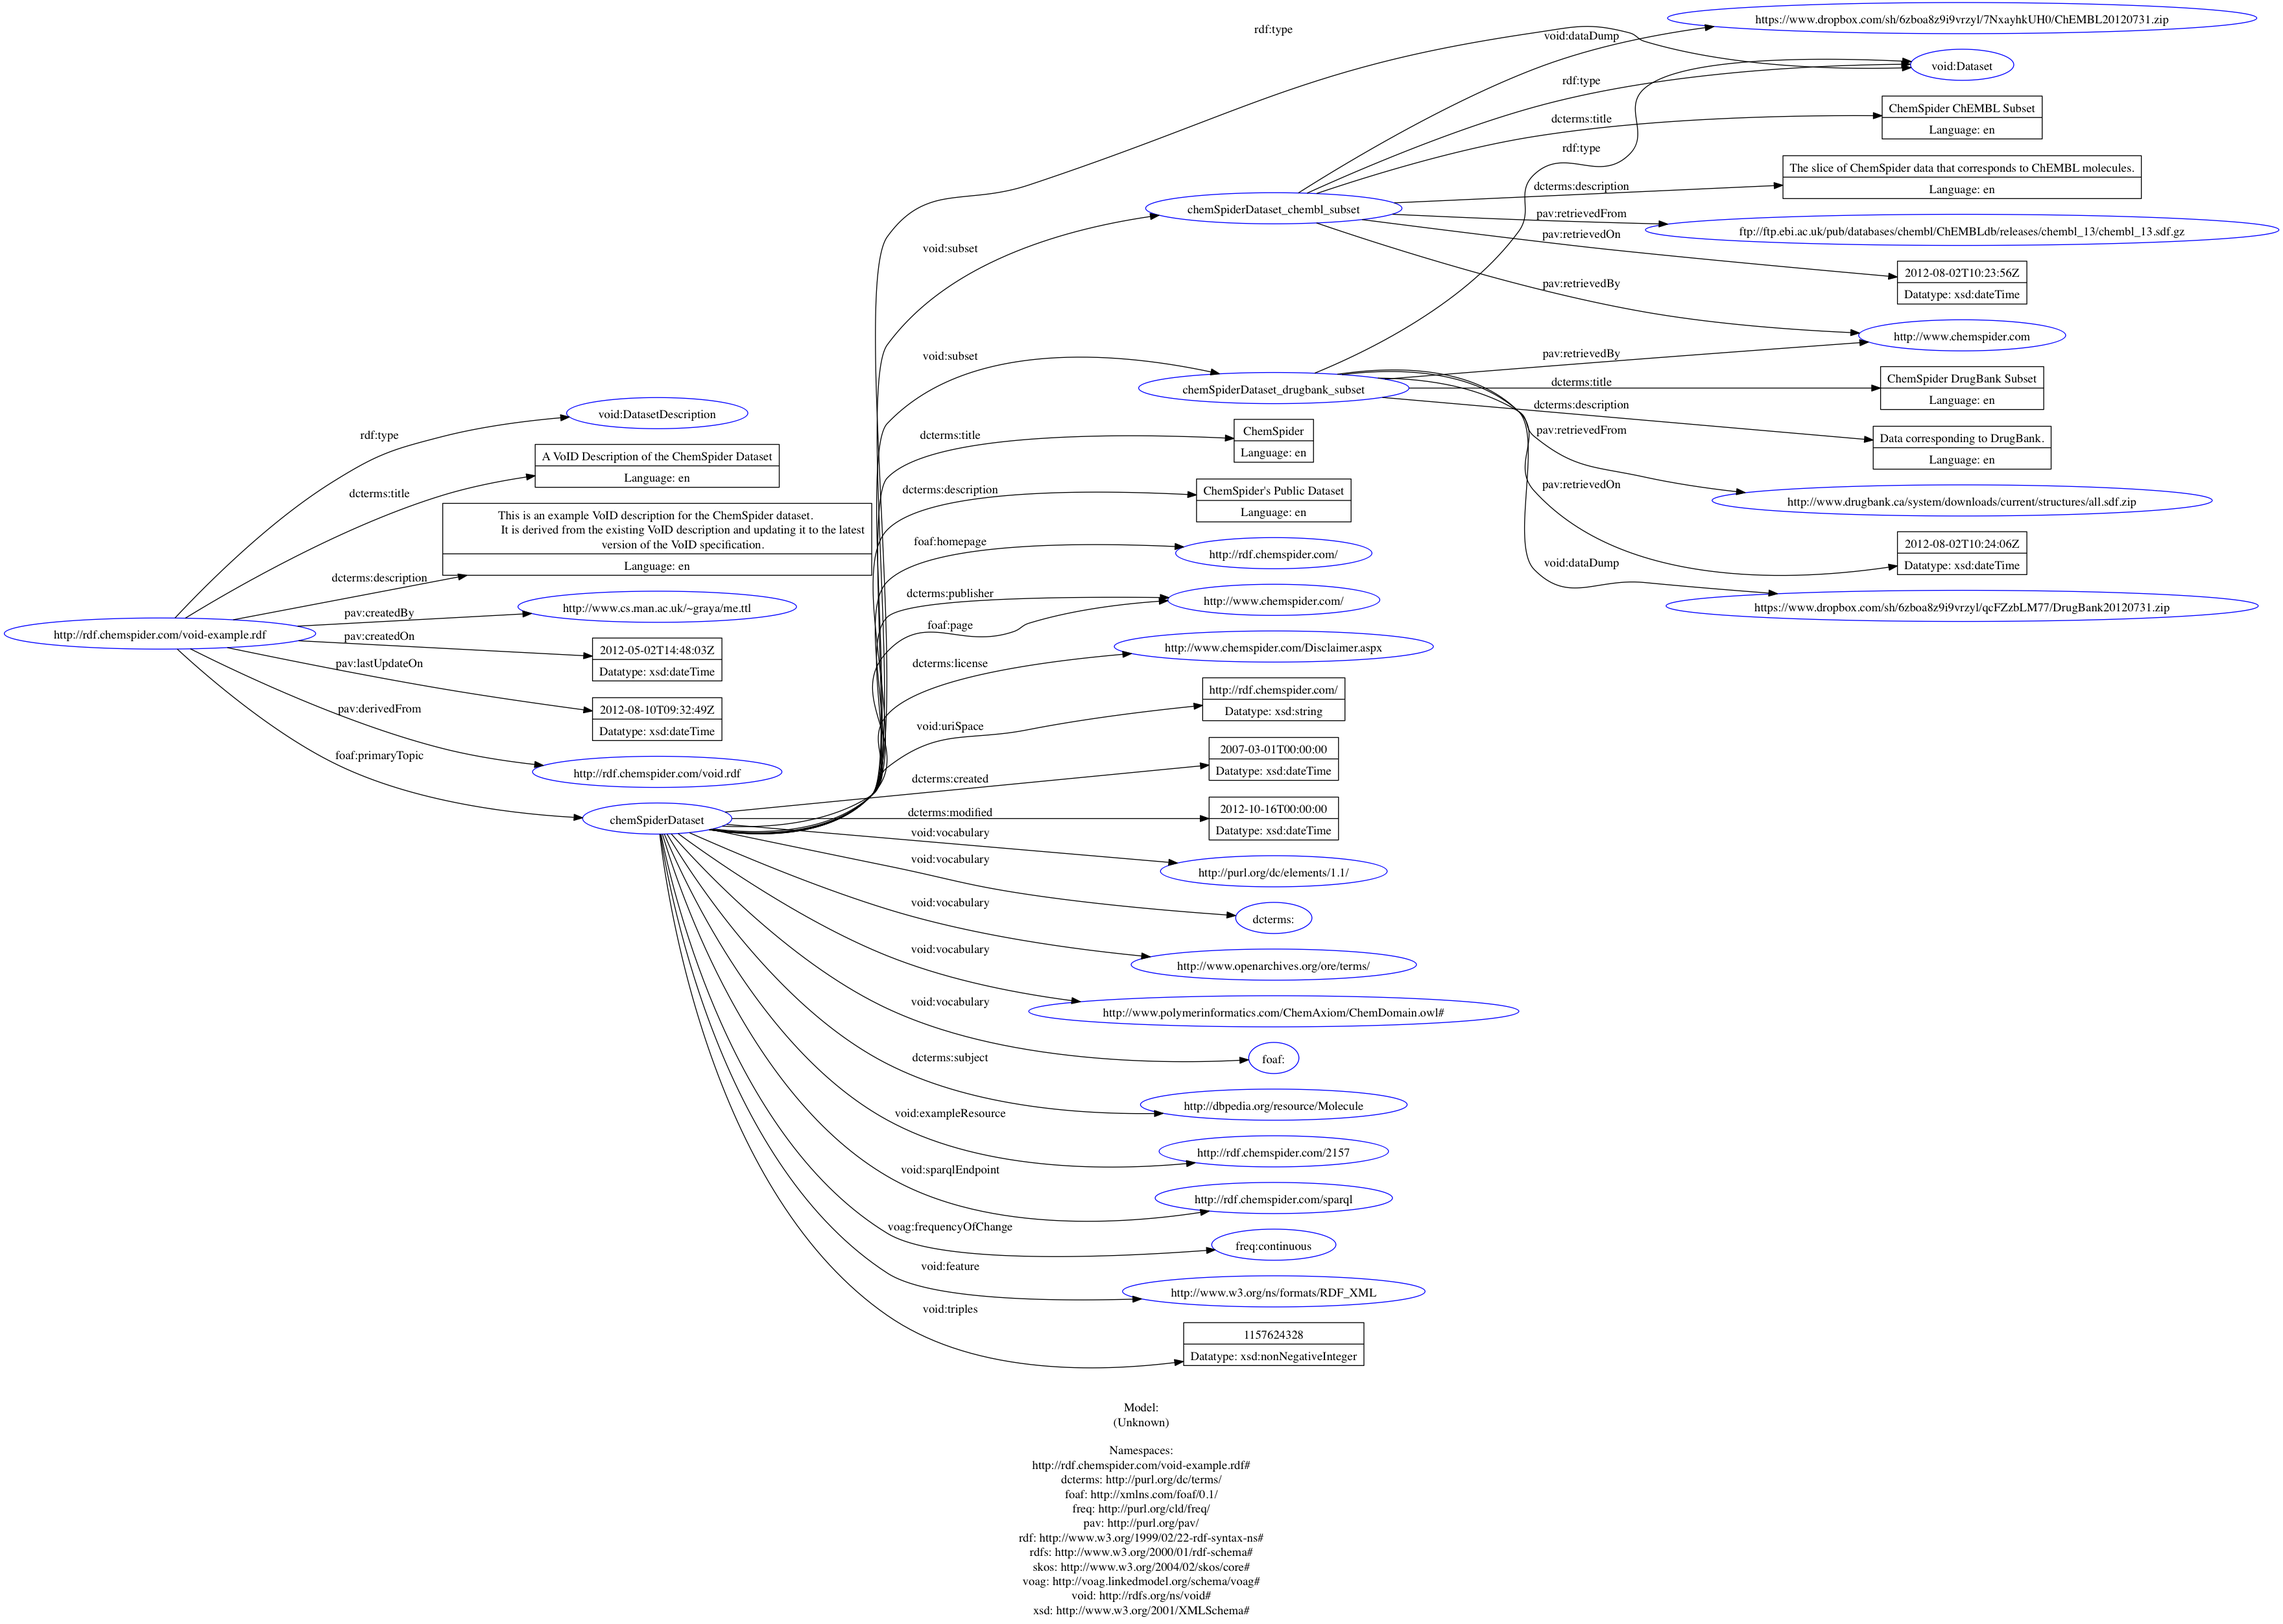
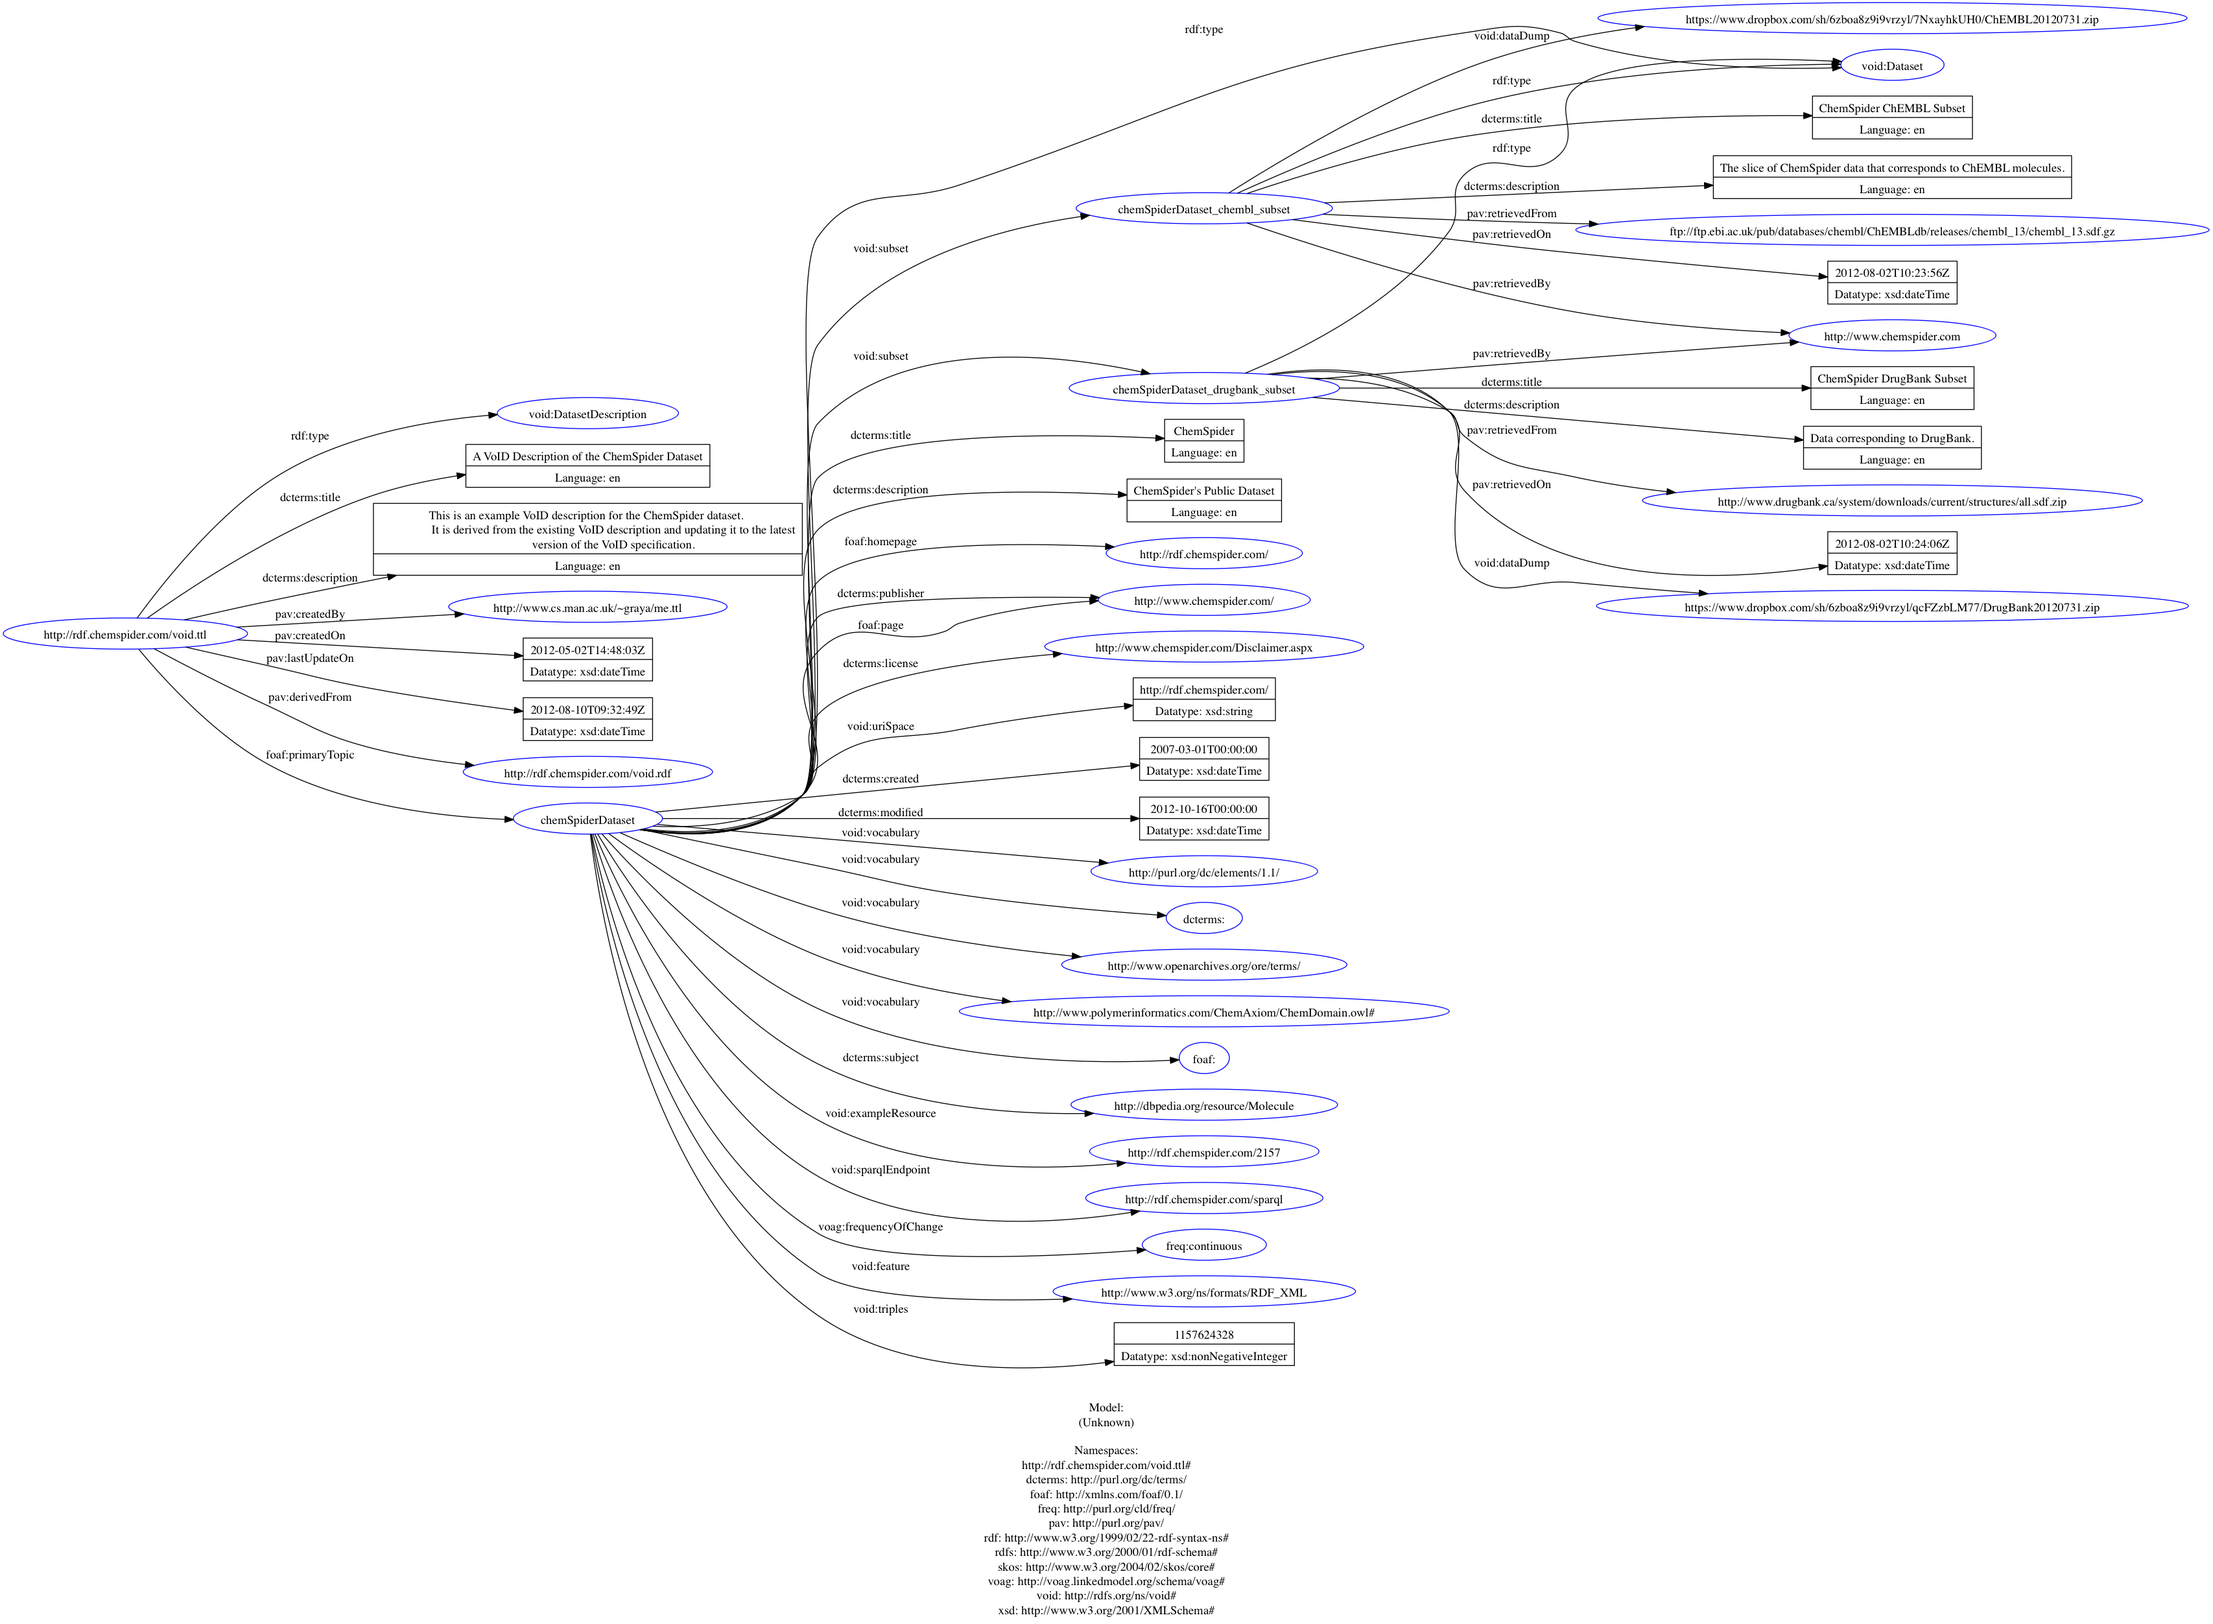
RESOLVED - issue DOC-142: chemspider namespace different between examples.
https://openphacts2011.atlassian.net/browse/DOC-142

diff --git a/datadesc/index.html b/datadesc/index.html
@@ -1744,7 +1744,7 @@
 <!-- Example copy and pasted from examples/chemspider-void.ttl -->
 		<pre class="RDF"
 			title="ChemSpiders VoID Descriptor as published in RDF/turtle">
-@prefix : &lt;http://rdf.chemspider.com/void-example.rdf#&gt;.
+@prefix : &lt;http://rdf.chemspider.com/void.ttl#&gt;.
 
 @prefix dcterms: &lt;http://purl.org/dc/terms/&gt;.
 @prefix foaf: &lt;http://xmlns.com/foaf/0.1/&gt; .
@@ -1758,7 +1758,7 @@
 @prefix xsd: &lt;http://www.w3.org/2001/XMLSchema#&gt;.
 
 # Metadata about this file
-&lt;http://rdf.chemspider.com/void-example.rdf&gt; 
+&lt;http://rdf.chemspider.com/void.ttl&gt; 
 	a void:DatasetDescription;
 	dcterms:title "A VoID Description of the ChemSpider Dataset"@en;
 	dcterms:description 
